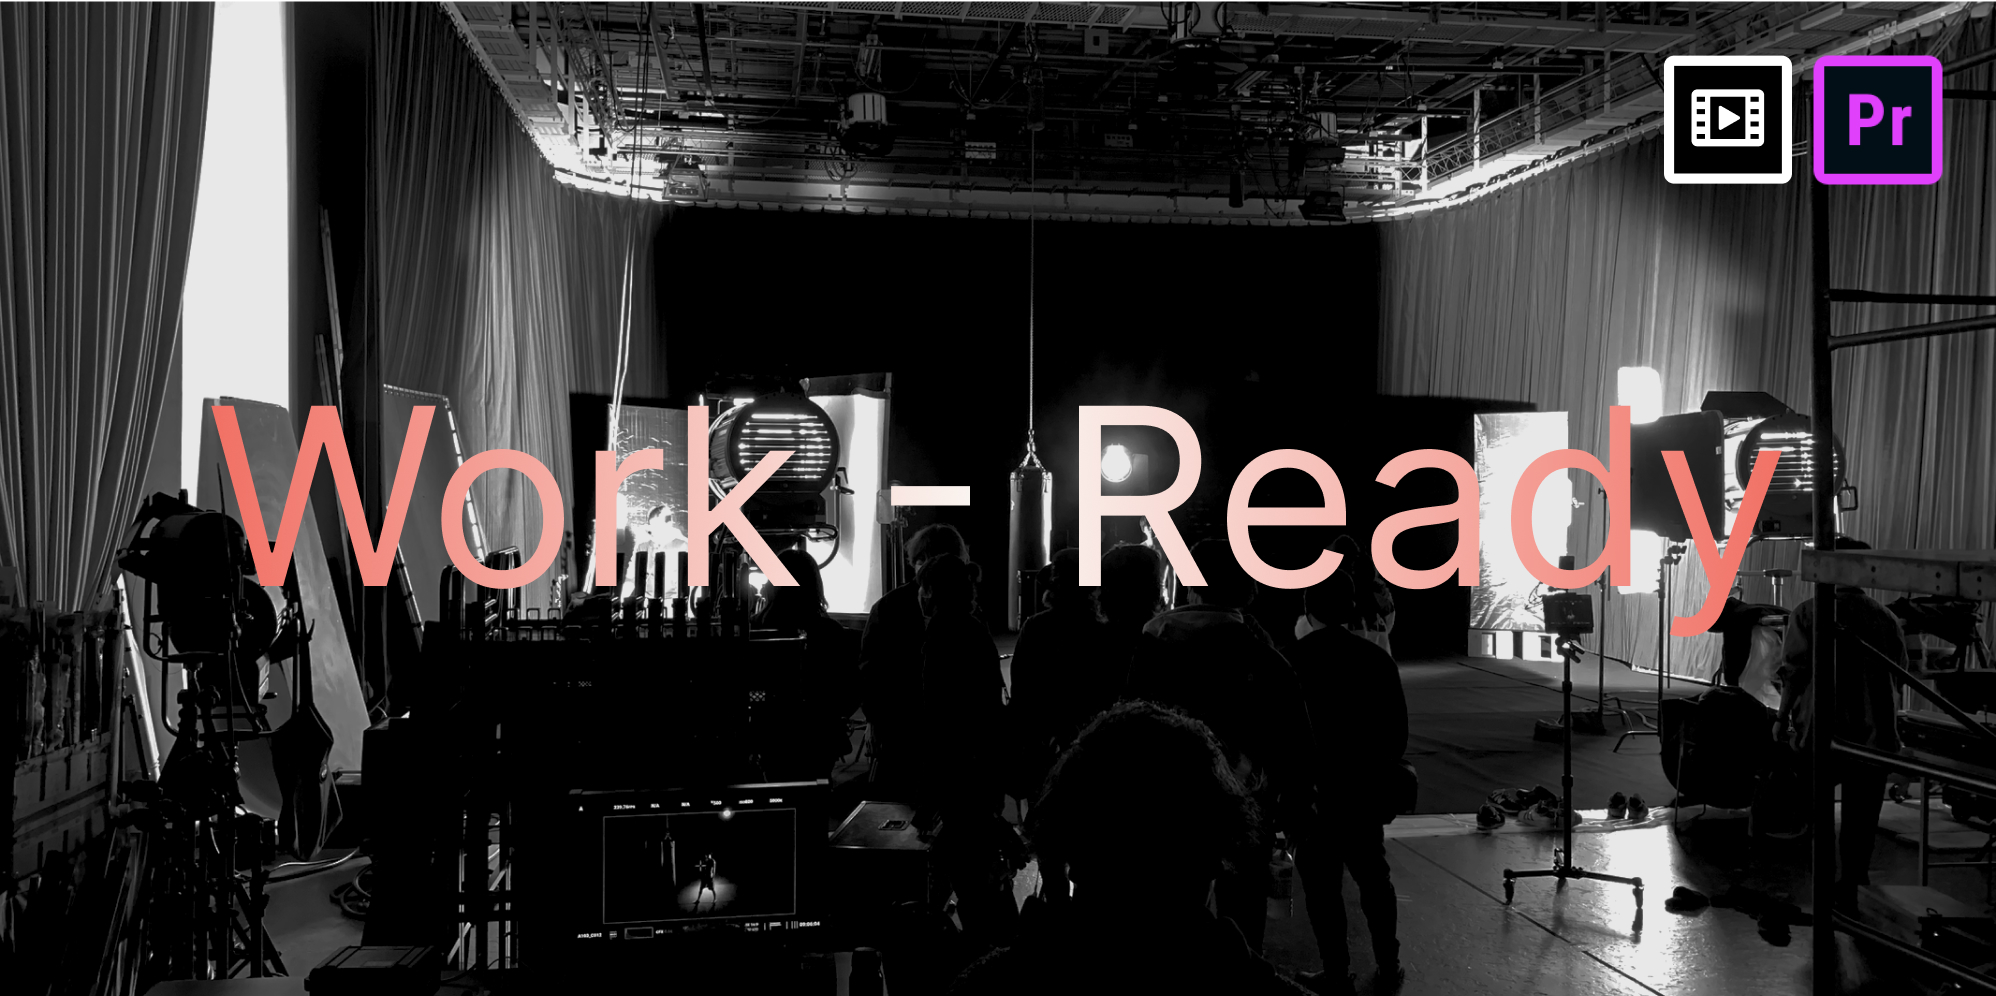
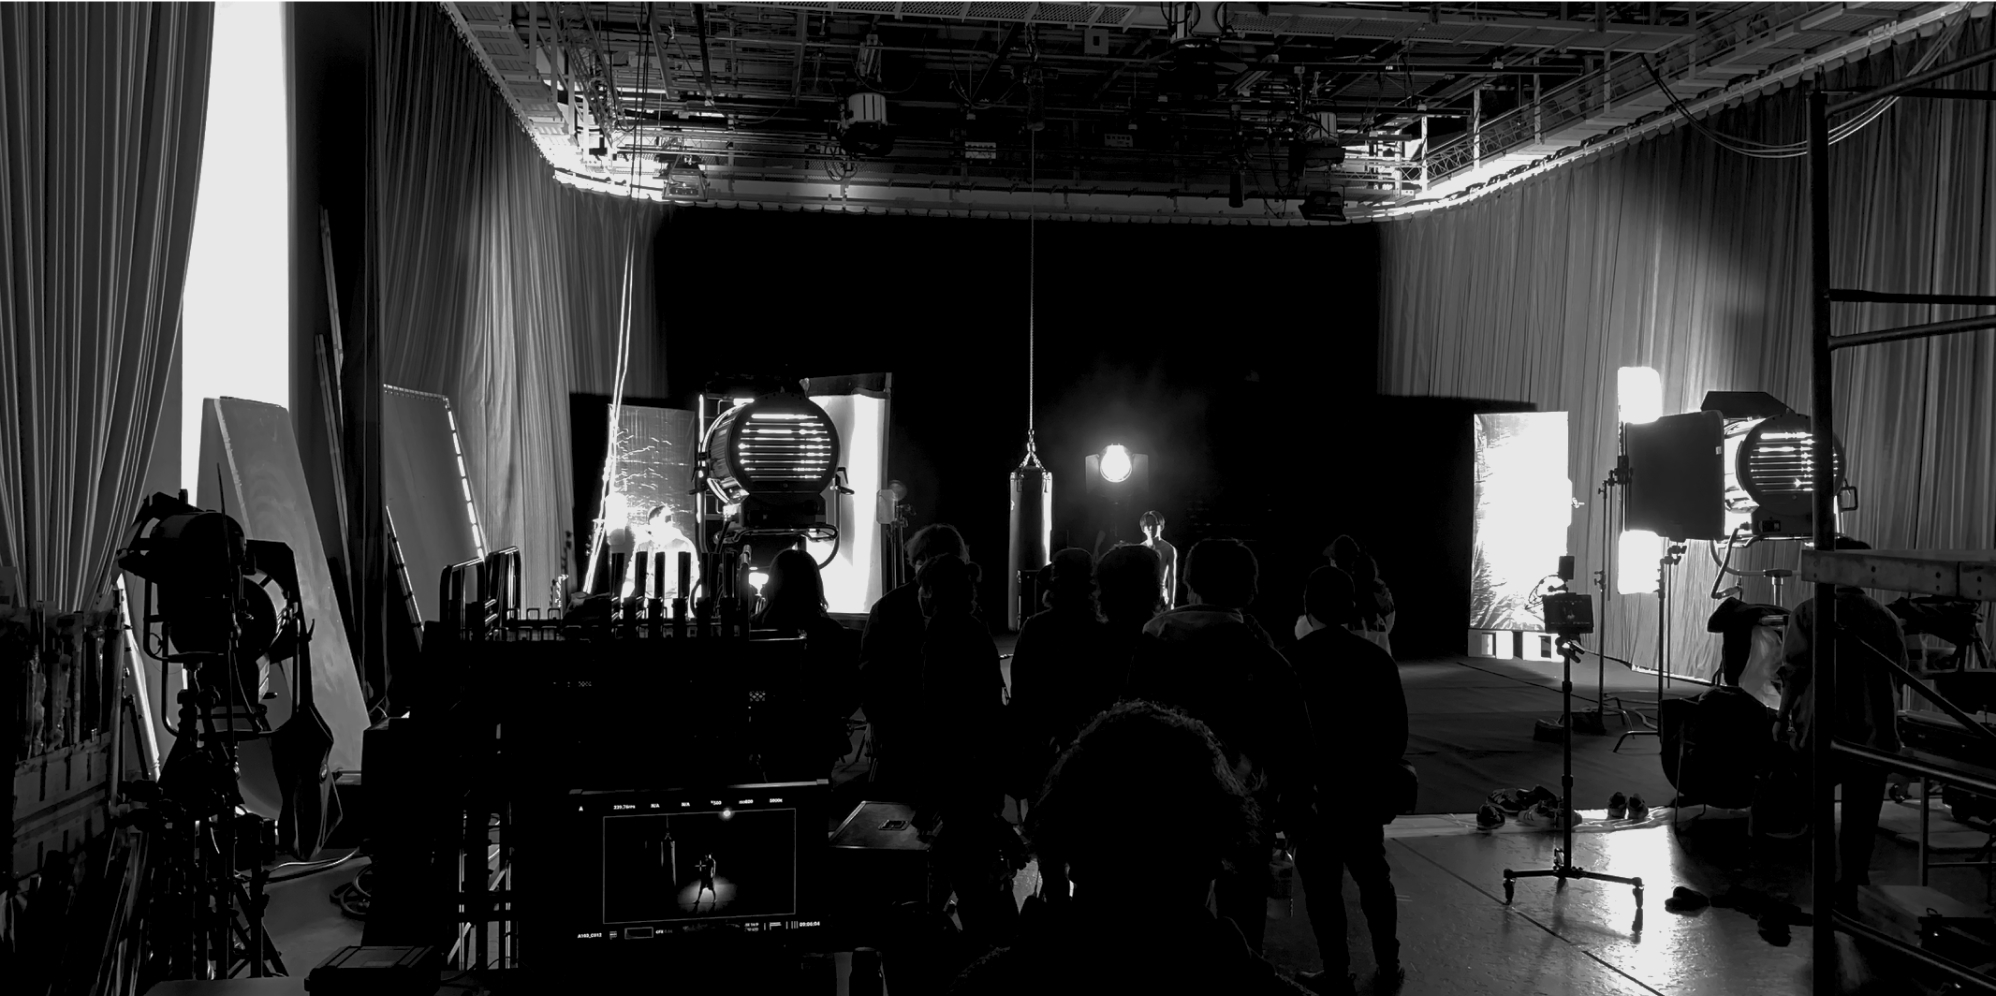
add fv scss

diff --git a/css/style.css b/css/style.css
@@ -242,6 +242,12 @@ select::-ms-expand {
   padding-left: 2.9861111111vw;
   padding-right: 2.9861111111vw;
 }
+@media screen and (min-width: 1441px) {
+  .sp-wrapper__inner {
+    padding-left: 2.6875rem;
+    padding-right: 2.6875rem;
+  }
+}
 
 .sp-contents {
   background: #333;
@@ -324,6 +330,106 @@ select::-ms-expand {
   margin-top: 0.725rem;
 }
 
+.fv {
+  max-width: 62.375rem;
+  width: calc(100% + 7.875rem);
+  margin-left: -3.9375rem;
+  background-image: url(../image/fv-bg-image.jpg);
+  background-size: cover;
+  background-position: center;
+  background-repeat: no-repeat;
+}
+
+.fv__inner {
+  padding: 1.70125rem 1.6875rem;
+  position: relative;
+}
+
+.fv__contents {
+  display: -webkit-box;
+  display: -ms-flexbox;
+  display: flex;
+  -webkit-box-pack: center;
+      -ms-flex-pack: center;
+          justify-content: center;
+  -webkit-box-align: center;
+      -ms-flex-align: center;
+          align-items: center;
+}
+
+.fv__text {
+  background: -webkit-gradient(linear, right top, left top, from(#F16F63), color-stop(0%, #FAF9F5), to(#F16F63));
+  background: linear-gradient(-90deg, #F16F63 0%, #FAF9F5 0%, #F16F63 100%);
+  -webkit-background-clip: text;
+  -webkit-text-fill-color: transparent;
+}
+
+.fv__icon-contents {
+  position: absolute;
+  top: 0;
+  right: 0;
+  display: -webkit-box;
+  display: -ms-flexbox;
+  display: flex;
+  gap: 0.6875rem;
+  -webkit-box-align: center;
+      -ms-flex-align: center;
+          align-items: center;
+}
+
+.fv__icon {
+  max-width: 4rem;
+  width: 100%;
+}
+
+.fv__scroll {
+  position: absolute;
+  max-width: 12.5rem;
+  width: 100%;
+  bottom: 0;
+  right: -2.0625rem;
+  -webkit-transform: translateY(50%);
+          transform: translateY(50%);
+}
+
+.fv__scroll-arrow {
+  position: absolute;
+  top: 50%;
+  left: 50%;
+  -webkit-transform: translate(-50%, -50%);
+          transform: translate(-50%, -50%);
+  max-width: 1.150625rem;
+  width: 100%;
+}
+
+.fv__scroll-text {
+  -webkit-transform: rotate(0);
+          transform: rotate(0);
+  -webkit-animation: rotateInfinite 7s linear infinite;
+          animation: rotateInfinite 7s linear infinite;
+}
+
+@-webkit-keyframes rotateInfinite {
+  from {
+    -webkit-transform: rotate(0deg);
+            transform: rotate(0deg);
+  }
+  to {
+    -webkit-transform: rotate(360deg);
+            transform: rotate(360deg);
+  }
+}
+
+@keyframes rotateInfinite {
+  from {
+    -webkit-transform: rotate(0deg);
+            transform: rotate(0deg);
+  }
+  to {
+    -webkit-transform: rotate(360deg);
+            transform: rotate(360deg);
+  }
+}
 .color-accent {
   color: #FD0000;
 }

diff --git a/scss/page/_fv.scss b/scss/page/_fv.scss
@@ -1,0 +1,66 @@
+@use "../global" as *;
+
+.fv {
+  max-width:rem(998);
+  width: calc(100% + (rem(63) * 2));
+  margin-left: rem(-63);
+  background-image: url(../image/fv-bg-image.jpg);
+  background-size: cover;
+  background-position: center;
+  background-repeat: no-repeat;
+}
+.fv__inner {
+  padding: rem(27.22) rem(27);
+  position: relative;
+}
+.fv__contents {
+  display: flex;
+  justify-content: center;
+  align-items: center;
+}
+.fv__text {
+  background: $color-fv-title;
+  -webkit-background-clip: text;
+  -webkit-text-fill-color: transparent;
+}
+.fv__icon-contents {
+  position: absolute;
+  top: 0;
+  right: 0;
+  display: flex;
+  gap: rem(11);
+  align-items: center;
+}
+.fv__icon {
+  max-width:rem(64);
+  width:100%;
+}
+.fv__scroll {
+  position: absolute;
+  max-width:rem(200);
+  width:100%;
+  bottom: 0;
+  right: rem(-33);
+  transform: translateY(50%);
+}
+.fv__scroll-arrow {
+  position: absolute;
+  top: 50%;
+  left: 50%;
+  transform: translate(-50%,-50%);
+  max-width:rem(18.41);
+  width:100%;
+}
+.fv__scroll-text {
+  transform: rotate(0);
+  animation: rotateInfinite 7s linear infinite;
+}
+
+@keyframes rotateInfinite {
+  from {
+    transform: rotate(0deg);
+  }
+  to {
+    transform: rotate(360deg);
+  }
+}

diff --git a/index.html b/index.html
@@ -81,7 +81,7 @@
               </div>
               <div class="fv__scroll">
                 <p class="fv__scroll-text"><img src="./image/scroll-text.svg" alt="explore more"></p>
-                <div class="fv__scroll-image"><img src="./image/scroll-arrow.svg" alt="explore more"></div>
+                <div class="fv__scroll-arrow"><img src="./image/scroll-arrow.svg" alt="explore more"></div>
               </div>
             </div>
           </div>

diff --git a/scss/page/_pc-wrapper.scss b/scss/page/_pc-wrapper.scss
@@ -1,0 +1,13 @@
+@use "../global" as *;
+.pc-wrapper {
+  padding-top: rem(62.78);
+  padding-bottom: rem(198);
+}
+.pc-wrapper__inner {
+  padding-left: calc(126 * 100vw / 1440);
+  padding-right: calc(126 * 100vw / 1440);
+  @media screen and (min-width:1441px) {
+    padding-left: rem(126);
+    padding-right: rem(126);
+  }
+}

diff --git a/scss/page/_sp-wrapper.scss b/scss/page/_sp-wrapper.scss
@@ -8,6 +8,10 @@
 .sp-wrapper__inner {
   padding-left: calc(43 * 100vw / 1440);
   padding-right: calc(43 * 100vw / 1440);
+  @media screen and (min-width:1441px) {
+    padding-left: rem(43);
+    padding-right: rem(43);
+  }
 }
 .sp-contents {
   background: $color-black;
